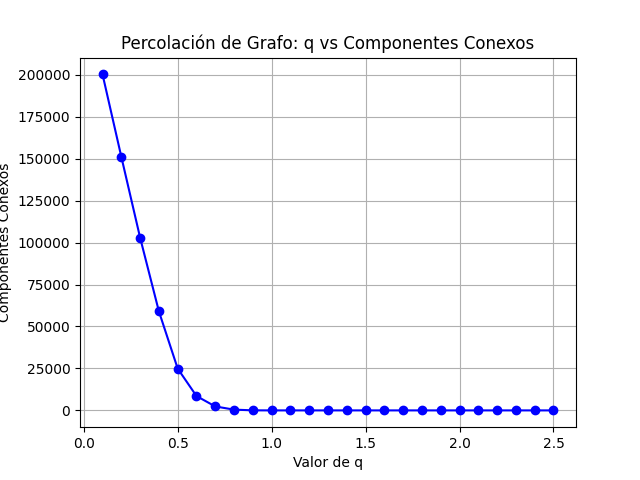
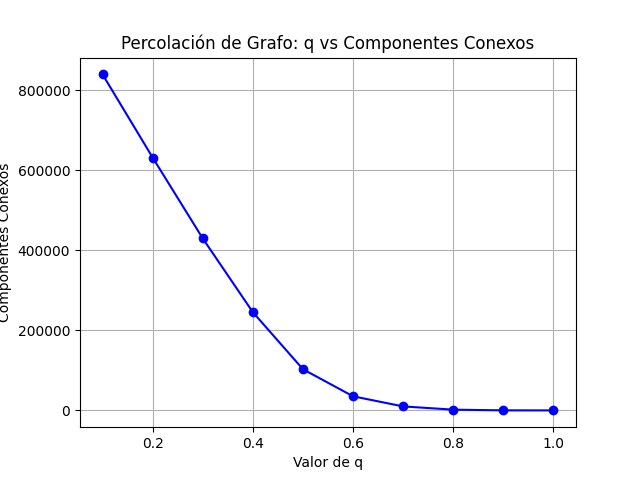
Corregido error del step

diff --git a/run_code.py b/run_code.py
@@ -5,7 +5,7 @@ import os
 
 # Configuración de parámetros
 nombre_archivo_dimacs = "malla_cuadrada.dimacs"  # Cambia a tu archivo DIMACS real
-num_iteraciones = 25
+num_iteraciones = 10
 valores_q = [round(i * 0.1, 2) for i in range(1, num_iteraciones + 1)]  # Limitar q a 2 decimales
 
 resultados = []
